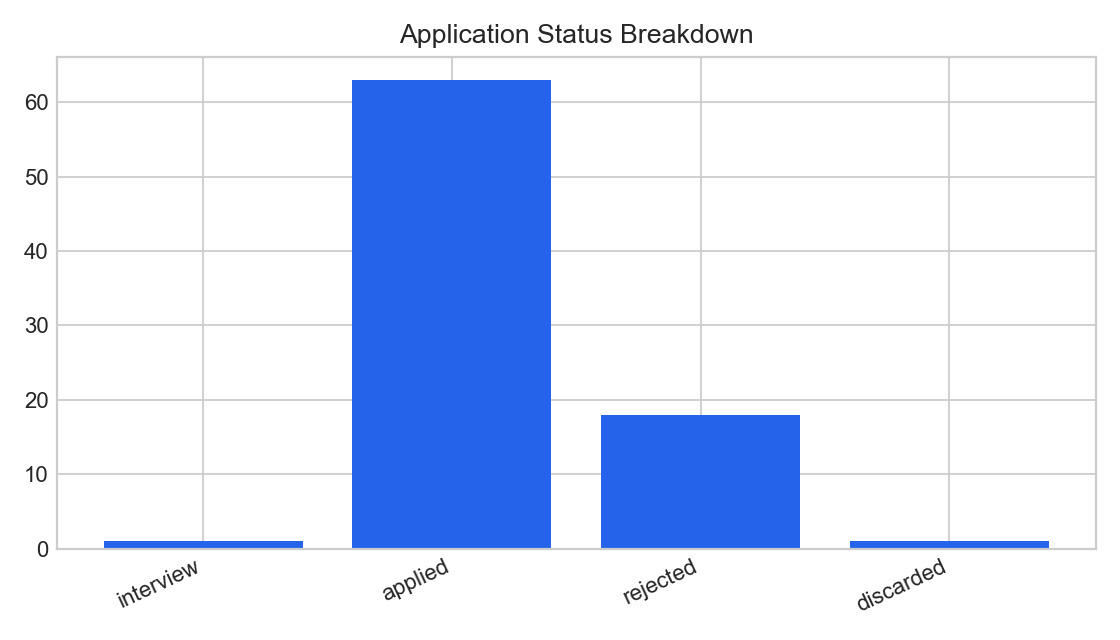
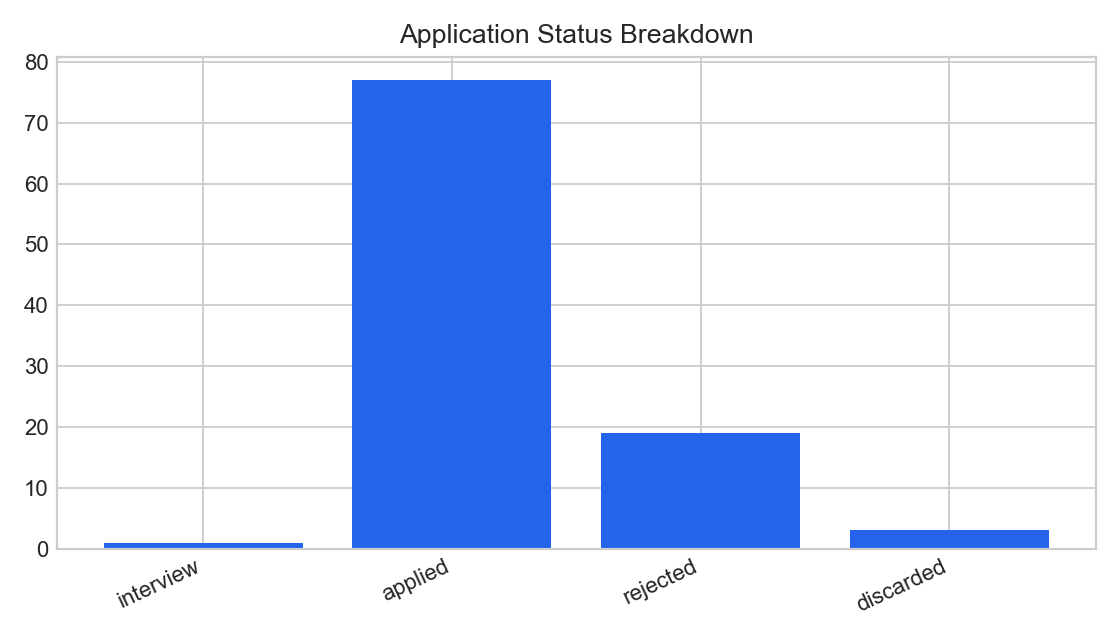
chore: daily analytics refresh 2026-04-28

diff --git a/data/daily_summary.md b/data/daily_summary.md
@@ -1,6 +1,6 @@
 # Daily Job Search Summary
 
-_Last refreshed: 2026-04-27T22:56:11-07:00_
+_Last refreshed: 2026-04-29T00:00:38-07:00_
 
 ## Positioning
 
@@ -10,9 +10,9 @@ _Last refreshed: 2026-04-27T22:56:11-07:00_
 
 ## Snapshot
 
-- Tracked roles: 214
-- Active roles: 70
-- Response rate: 1.1%
+- Tracked roles: 222
+- Active roles: 78
+- Response rate: 1.0%
 - LinkedIn outreach sent: 20
 - Pending pipeline items: 124
 - Recommended pipeline items: 29
@@ -20,23 +20,23 @@ _Last refreshed: 2026-04-27T22:56:11-07:00_
 
 ## Status Breakdown
 
-- applied: 69
+- applied: 77
 - discarded: 3
 - interview: 1
 - rejected: 19
 
 ## Recent Activity
 
+- 2026-04-28: DataDog | Associate Marketing Data Analyst – Marketing Analytics | applied
+- 2026-04-28: AEG | Data Analyst | applied
+- 2026-04-28: Ipsos | Data Analyst, Global Modeling Unit | applied
+- 2026-04-28: Ibotta | Associate Machine Learning Engineer | applied
+- 2026-04-28: Windfall | Data Analyst | applied
+- 2026-04-28: LG Ads | Data Analytics Associate (Marketing Science) | applied
+- 2026-04-28: LG Ad Solutions | Data Analytics Associate (Marketing Science) | applied
 - 2026-04-27: Sodexo | Commercial Strategy & Analytics Fellow | applied
 - 2026-04-27: Event Network | Data Entry Analyst - SSC | applied
 - 2026-04-27: Lentegrity | Junior Data Analyst | applied
-- 2026-04-27: Puridy Financial | Systems, Data & AI Operations Engineer | applied
-- 2026-04-27: Reproductive Fertility Center | Data Analyst Engineer | applied
-- 2026-04-27: TeamBuilderz LLC | Data Analyst | applied
-- 2026-04-26: Hive | Product Analyst - Sports, Media, & Marketing | applied
-- 2026-04-26: Duolingo | Data Scientist I, New Graduate | discarded
-- 2026-04-26: Gopuff | Data Scientist II, Consumer Experience | discarded
-- 2026-04-25: Ramp | Data Scientist, All Levels | applied
 
 ## Recommended Opportunity Queue
 
@@ -58,13 +58,13 @@ _Last refreshed: 2026-04-27T22:56:11-07:00_
 
 ## Needs Attention
 
-- Microsoft | Applied Scientist: Microsoft AI Development Acceleration Program | 46 days with no response
-- Nvidia | Deep Learning Architect, LLM Inference - New College Grad 2026 | 46 days with no response
-- Google | Software Engineer II, Early Career | 42 days with no response
-- Apple | AIML - Machine Learning Research | 35 days with no response
-- Amazon | Data Engineer II | 33 days with no response
-- Amazon | Software Development Engineer – Amazon Leo (US) | 33 days with no response
-- Amazon | Software Development Engineer - 2026 (US) | 33 days with no response
-- Amazon | 软件开发工程师（2026届校招）, Beijing | 33 days with no response
-- Amazon | 软件开发工程师, (New graduate or Entry-level Engineer, 0-2 Years) | 33 days with no response
-- Esri | Product Test Engineer II - Feature Server | 33 days with no response
+- Microsoft | Applied Scientist: Microsoft AI Development Acceleration Program | 48 days with no response
+- Nvidia | Deep Learning Architect, LLM Inference - New College Grad 2026 | 48 days with no response
+- Google | Software Engineer II, Early Career | 44 days with no response
+- Apple | AIML - Machine Learning Research | 37 days with no response
+- Amazon | Data Engineer II | 35 days with no response
+- Amazon | Software Development Engineer – Amazon Leo (US) | 35 days with no response
+- Amazon | Software Development Engineer - 2026 (US) | 35 days with no response
+- Amazon | 软件开发工程师（2026届校招）, Beijing | 35 days with no response
+- Amazon | 软件开发工程师, (New graduate or Entry-level Engineer, 0-2 Years) | 35 days with no response
+- Esri | Product Test Engineer II - Feature Server | 35 days with no response
